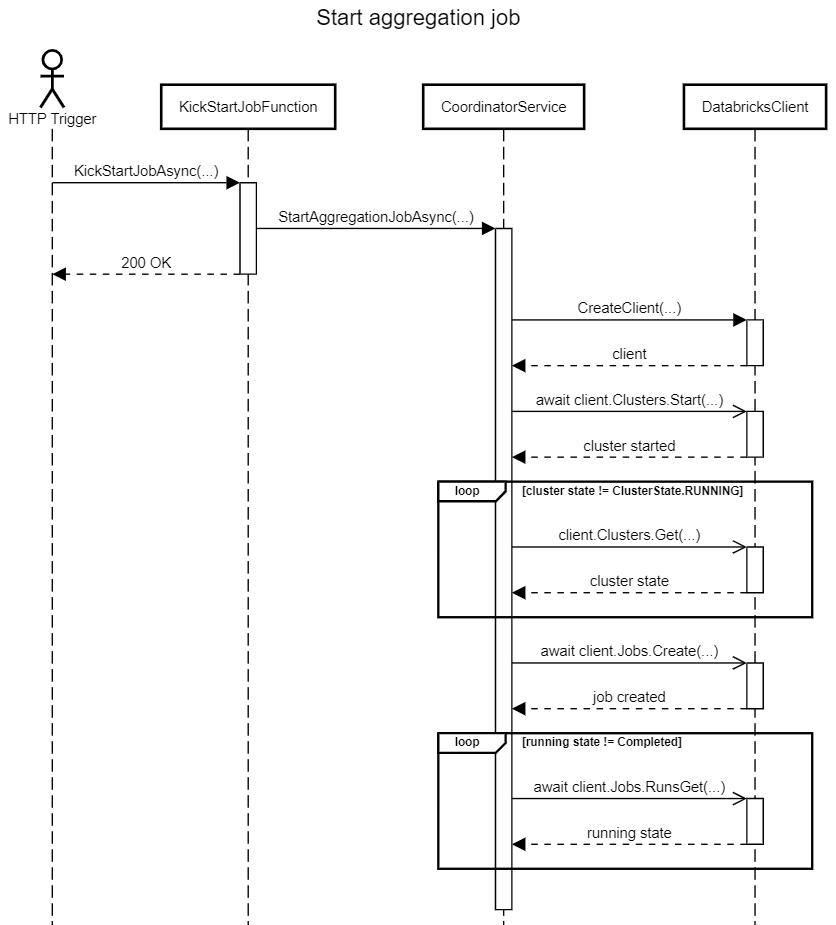
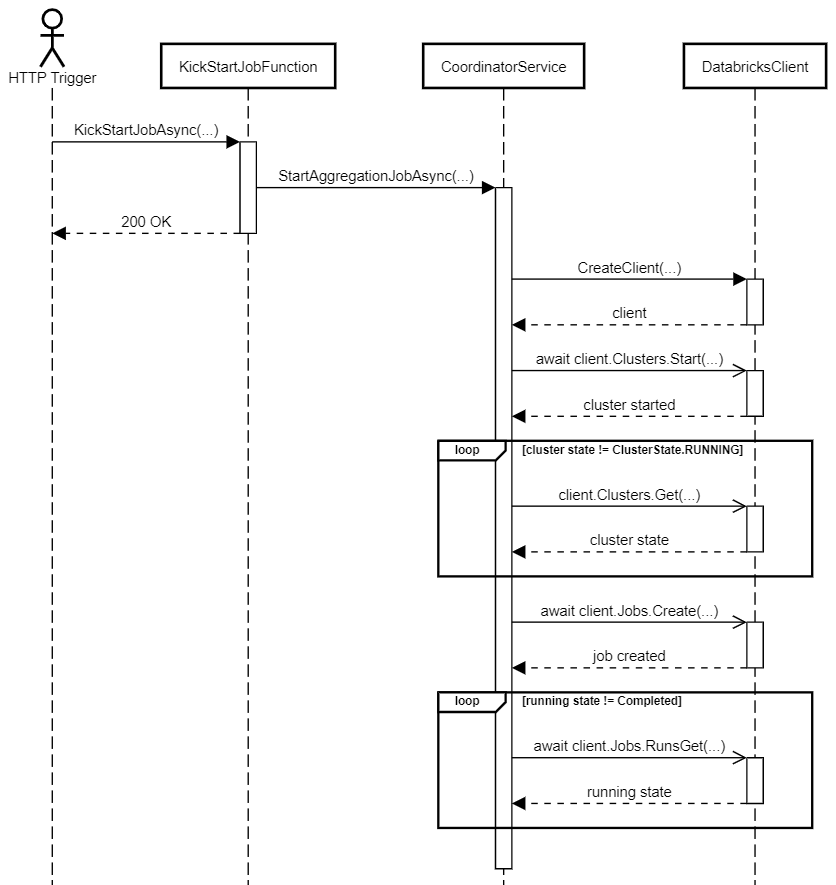
Removed embedded title from diagrams

diff --git a/source/coordinator/Readme.md b/source/coordinator/Readme.md
@@ -4,6 +4,5 @@
 
 Aggregations are done in databricks and are coordinated via an Azure function
 
-![design](../../images/start-aggregation-job.png)
-
-![design](../../images/receive-result.png)
+![Alt text](../../images/start-aggregation-job.png?raw=true "Start aggregation job")
+![Alt text](../../images/receive-result.png?raw=true "Receive aggregation result")
